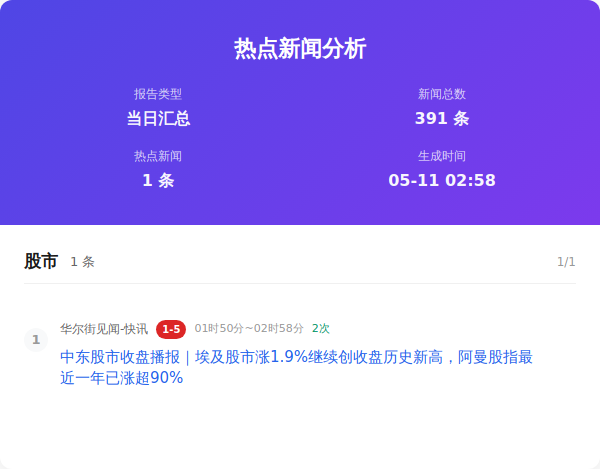
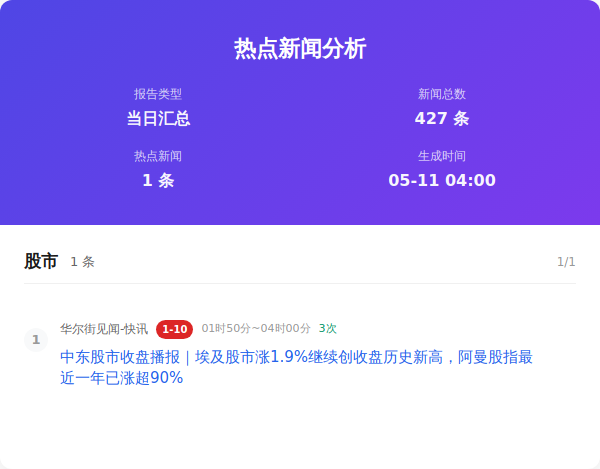
Auto update by GitHub Actions at Mon May 11 04:00:57 CST 2026

Changed region(s): [[0.27, 0.6866, 0.57, 0.7164], [0.75, 0.3582, 0.84, 0.4179], [0.69, 0.2388, 0.75, 0.2687]]

diff --git a/output/2026年05月11日/html/当日汇总.html b/output/2026年05月11日/html/当日汇总.html
@@ -417,7 +417,7 @@
                     </div>
                     <div class="info-item">
                         <span class="info-label">新闻总数</span>
-                        <span class="info-value">391 条</span>
+                        <span class="info-value">427 条</span>
                     </div>
                     <div class="info-item">
                         <span class="info-label">热点新闻</span>
@@ -425,7 +425,7 @@
                     </div>
                     <div class="info-item">
                         <span class="info-label">生成时间</span>
-                        <span class="info-value">05-11 02:58</span>
+                        <span class="info-value">05-11 04:00</span>
                     </div>
                 </div>
             </div>
@@ -443,7 +443,7 @@
                         <div class="news-number">1</div>
                         <div class="news-content">
                             <div class="news-header">
-                                <span class="source-name">华尔街见闻-快讯</span><span class="rank-num top">1-5</span><span class="time-info">01时50分~02时58分</span><span class="count-info">2次</span>
+                                <span class="source-name">华尔街见闻-快讯</span><span class="rank-num top">1-10</span><span class="time-info">01时50分~04时00分</span><span class="count-info">3次</span>
                             </div>
                             <div class="news-title"><a href="https://wallstreetcn.com/livenews/3101149" target="_blank" class="news-link">中东股市收盘播报｜埃及股市涨1.9%继续创收盘历史新高，阿曼股指最近一年已涨超90%</a>
                             </div>